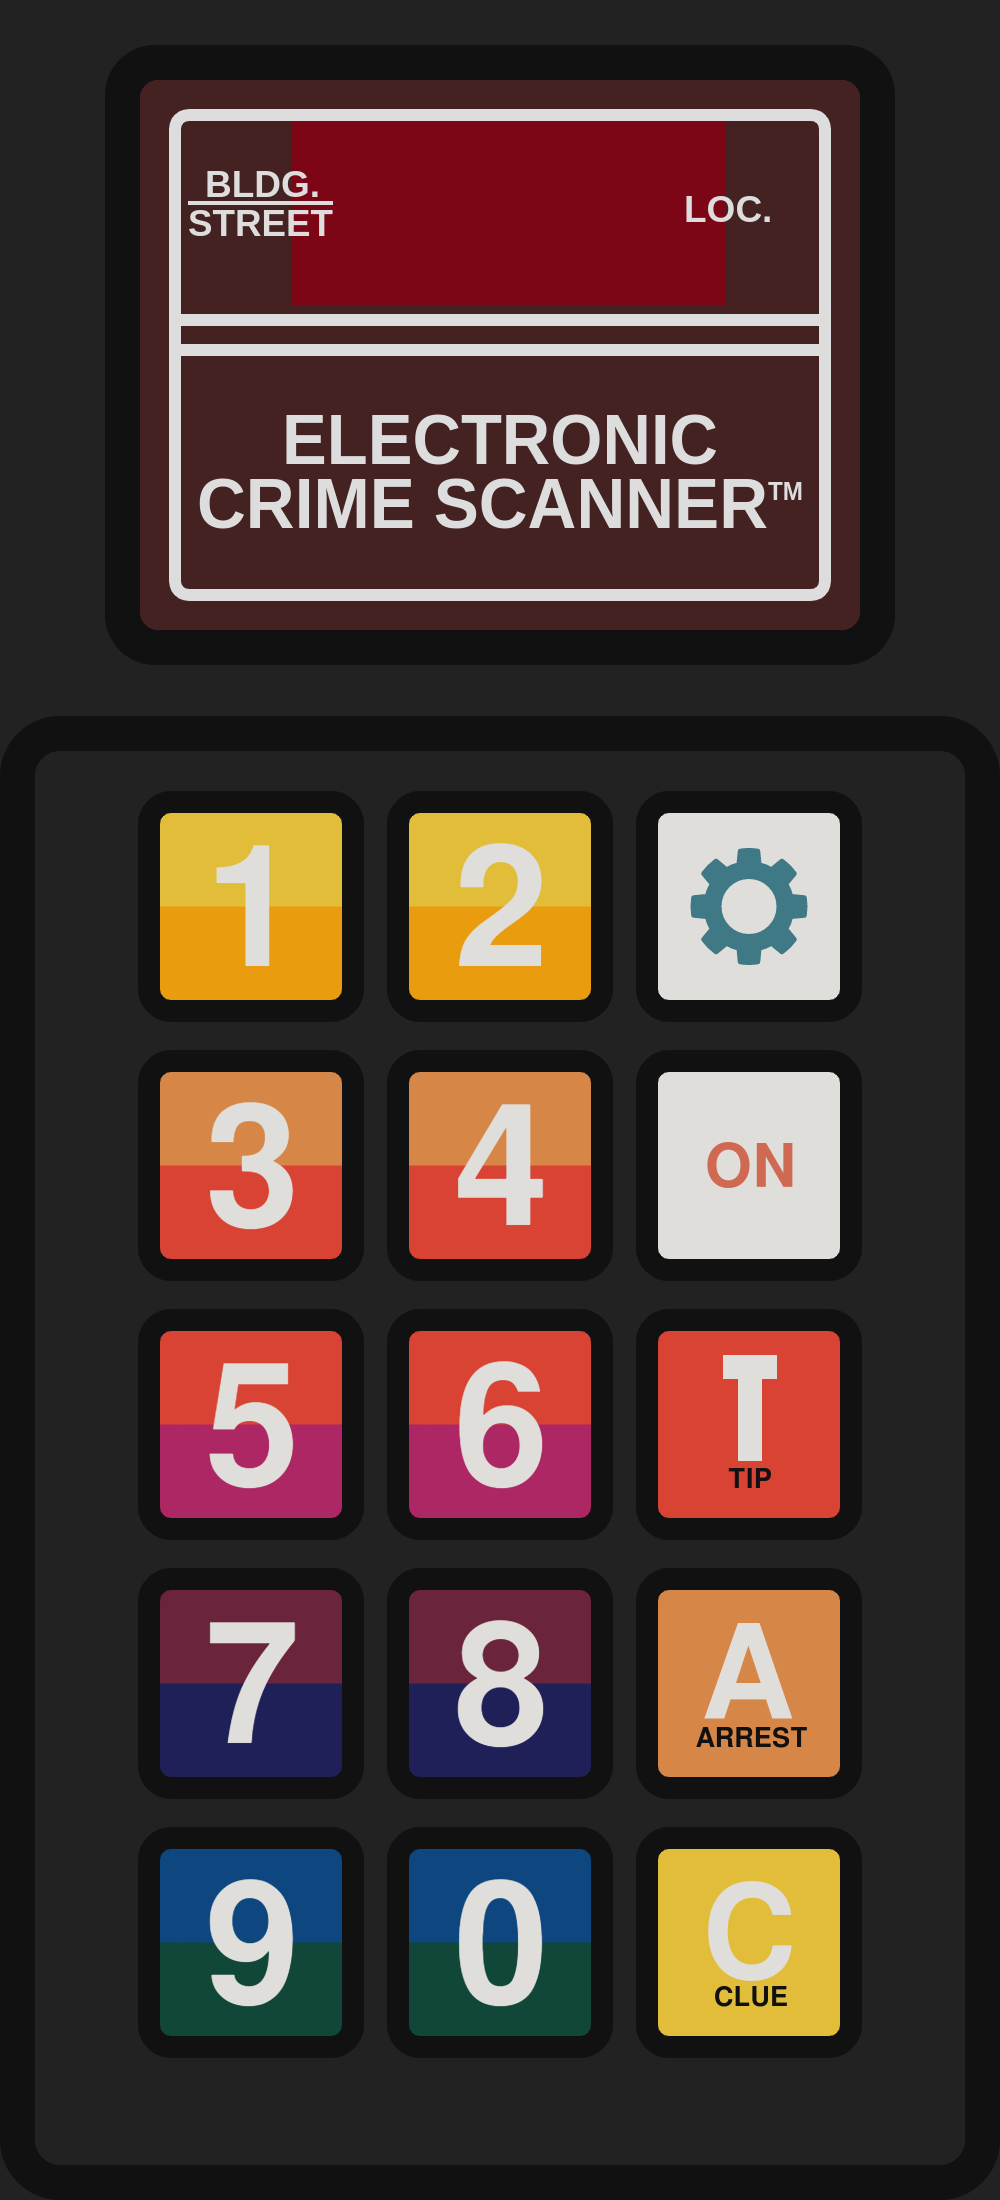
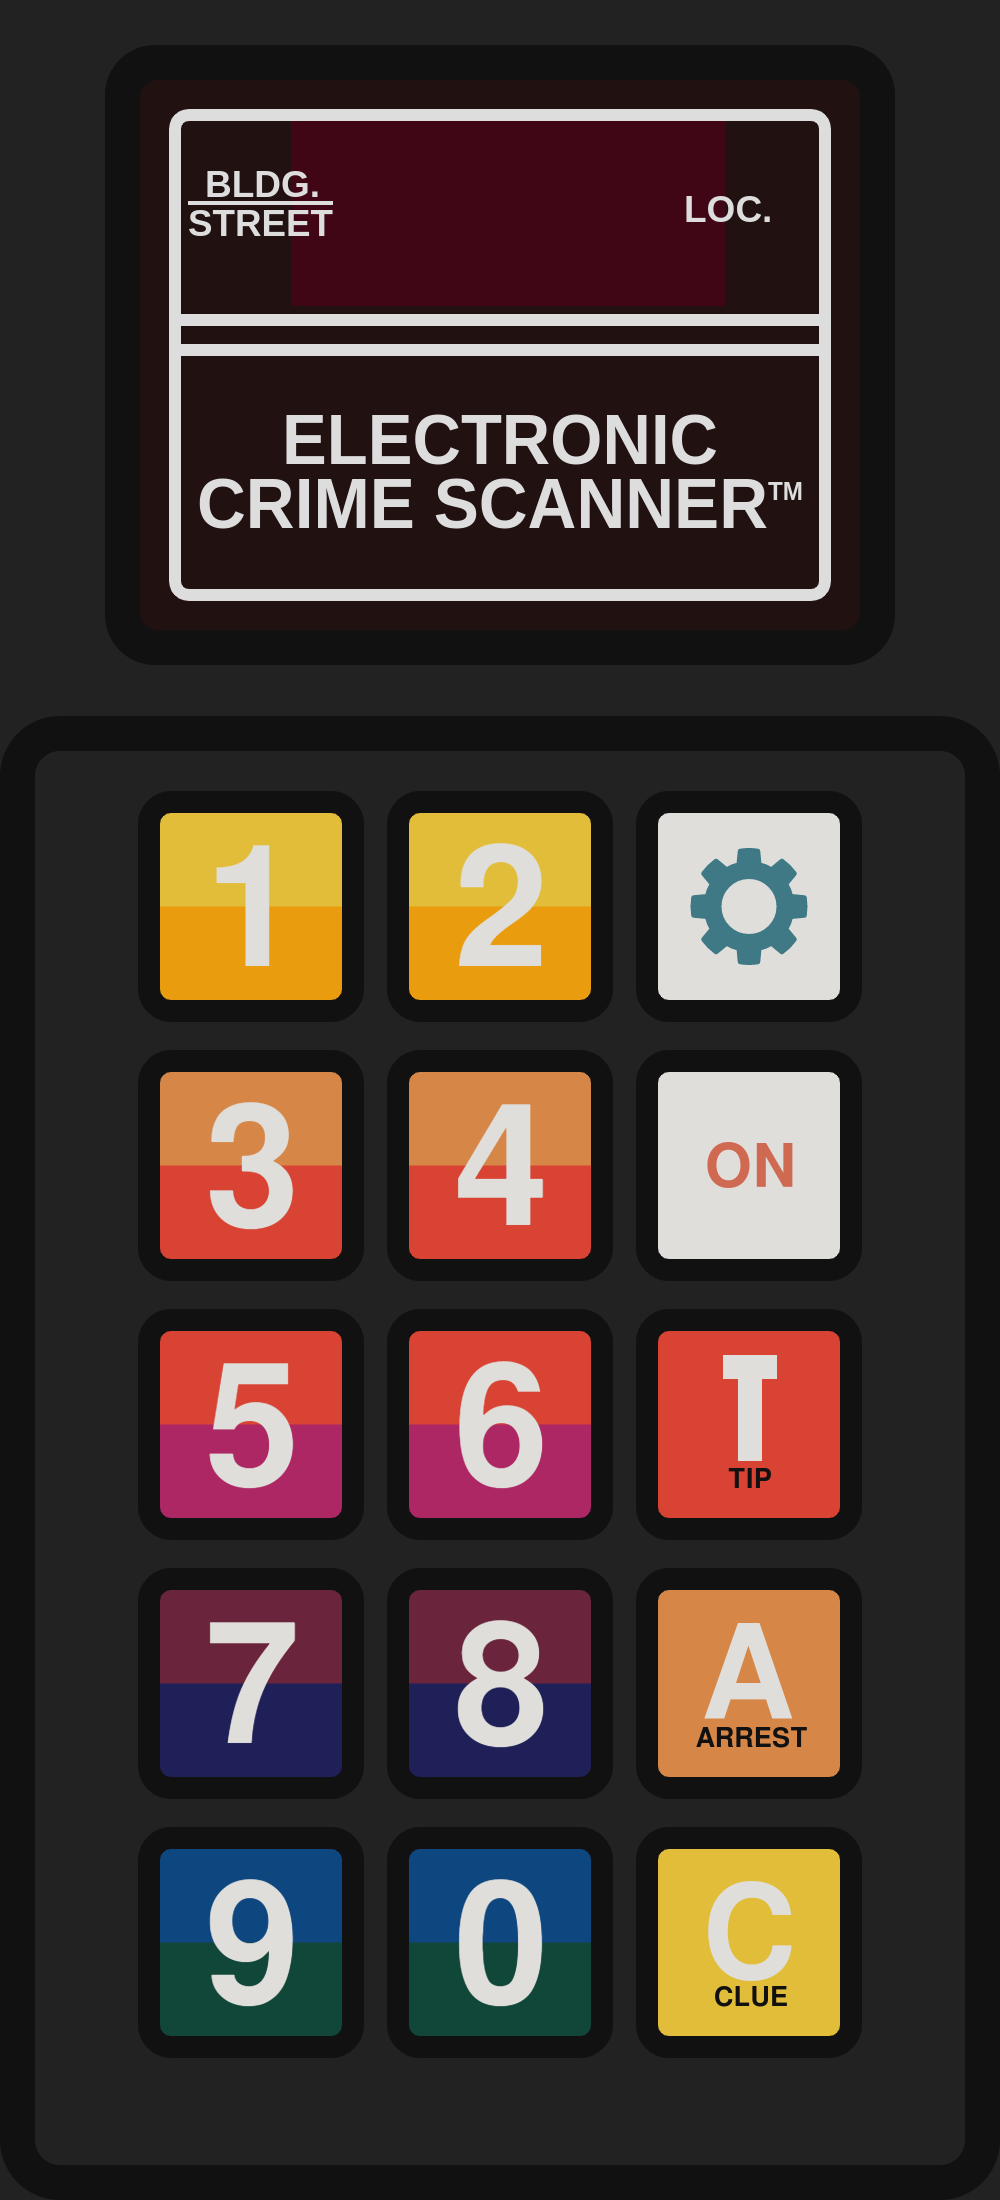
darken LCD background

Changed region(s): [[0.124, 0.0309, 0.868, 0.3091]]

diff --git a/a.js b/a.js
@@ -54,11 +54,11 @@ function _generateMachine() {
   context.beginPath();
   context.roundRect(105, 45, 790, 620, 50);
   context.fill();
-  context.fillStyle = "#422";
+  context.fillStyle = "#211";
   context.beginPath();
   context.roundRect(140, 80, 720, 550, 18);
   context.fill();
-  context.fillStyle = "#7c0616";
+  context.fillStyle = "#400616";
   context.beginPath();
   context.roundRect(291, 120, 434, 186, 2);
   context.fill();
